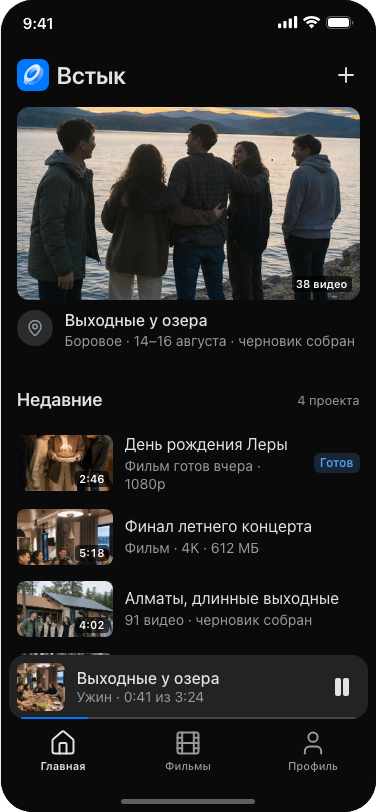
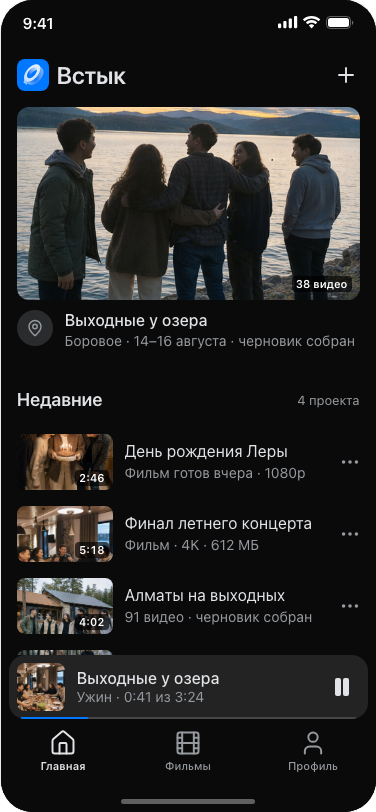
Встык: тап по фильму открывает плеер, по черновику — проект, действия за «…»; лист действий светлый в светлой теме приложения

Changed region(s): [[0.0293, 0.5234, 0.9069, 0.8313], [0.8191, 0.5542, 0.9654, 0.585], [0.234, 0.5234, 0.2633, 0.5542]]

diff --git a/platform/concepts/skleyka/screens/projects.html b/platform/concepts/skleyka/screens/projects.html
@@ -1,1 +1,1 @@
-<div class="screen ui vk-dark" id="scr-projects"><div class="ui-scroll is-root"><header class="ui-top"><strong class="ui-wordmark"><img class="ui-wordmark-logo" src="assets/app-icon.png" alt=""/>Встык</strong><button class="ui-icon-btn" data-primary data-go="create" aria-label="Создать событие"><svg><use href="#i-plus"/></svg></button></header><button class="ui-video sk-first" data-go="project"><span class="ui-video-art m4"><span class="ui-duration"><span data-hide-granted="photos">38 видео</span><span class="perm-hidden" data-show-granted="photos">42 видео</span></span></span><span class="ui-video-meta"><span class="ui-avatar sk-place-ava"><svg><use href="#i-map-pin"/></svg></span><span class="ui-video-text"><strong>Выходные у озера</strong><span>Боровое · 14–16 августа · черновик собран</span></span></span></button><section class="ui-sec"><div class="ui-sec-head"><h2>Недавние</h2><span class="ui-foot">4 проекта</span></div><div class="ui-list"><button class="ui-row" data-menu="Изменить|Удалить" aria-label="День рождения Леры"><span class="ui-thumb is-wide m5"><span class="ui-duration">2:46</span></span><span class="ui-row-text"><strong>День рождения Леры</strong><span>Фильм готов вчера · 1080p</span></span><span class="ui-row-end"><span class="ui-badge is-blue">Готов</span></span></button><button class="ui-row" data-menu="Изменить|Удалить" aria-label="Финал летнего концерта"><span class="ui-thumb is-wide m3"><span class="ui-duration">5:18</span></span><span class="ui-row-text"><strong>Финал летнего концерта</strong><span>Фильм · 4K · 612 МБ</span></span></button><button class="ui-row" data-menu="Изменить|Удалить" aria-label="Алматы, длинные выходные"><span class="ui-thumb is-wide m1"><span class="ui-duration">4:02</span></span><span class="ui-row-text"><strong>Алматы, длинные выходные</strong><span>91 видео · черновик собран</span></span></button><button class="ui-row" data-menu="Изменить|Удалить" aria-label="Поход на Бурабай"><span class="ui-thumb is-wide m6"><span class="ui-duration">0:47</span></span><span class="ui-row-text"><strong>Поход на Бурабай</strong><span>6 видео · импорт 62 %</span></span></button></div></section><section class="ui-sec"><button class="sk-ad" data-go="ads"><span class="sk-ad-art" data-hide-granted="tracking"><svg><use href="#i-smartphone"/></svg></span><span class="sk-ad-art perm-hidden" data-show-granted="tracking"><svg><use href="#i-mic"/></svg></span><span class="ui-row-text"><strong data-hide-granted="tracking">Штатив для телефона</strong><strong class="perm-hidden" data-show-granted="tracking">Петличный микрофон</strong><span data-hide-granted="tracking">Реклама · снимать без рук</span><span class="perm-hidden" data-show-granted="tracking">Реклама · по интересам</span></span></button></section></div><nav class="ui-tabs tabbar" aria-label="Основная навигация"><div class="ui-mini"><button class="ui-mini-main" data-go="viewer" aria-label="Открыть плеер"><span class="ui-mini-face m3"></span><span class="ui-mini-text"><strong>Выходные у озера</strong><span>Ужин · 0:41 из 3:24</span></span></button><button class="ui-icon-btn" data-toast="Пауза на 0:41" aria-label="Пауза"><svg class="ui-fill-ico"><use href="#i-pause"/></svg></button><span class="ui-mini-bar"><i class="is-20"></i></span></div><div class="ui-tabrow"><button class="ui-tab tab is-on" aria-current="page" data-go="projects"><svg><use href="#i-house"/></svg><span>Главная</span></button><button class="ui-tab tab" data-go="archive"><svg><use href="#i-film"/></svg><span>Фильмы</span></button><button class="ui-tab tab" data-go="settings"><svg><use href="#i-user"/></svg><span>Профиль</span></button></div></nav><div class="home-ind"></div></div>
+<div class="screen ui vk-dark" id="scr-projects"><div class="ui-scroll is-root"><header class="ui-top"><strong class="ui-wordmark"><img class="ui-wordmark-logo" src="assets/app-icon.png" alt=""/>Встык</strong><button class="ui-icon-btn" data-primary data-go="create" aria-label="Создать событие"><svg><use href="#i-plus"/></svg></button></header><button class="ui-video sk-first" data-go="project"><span class="ui-video-art m4"><span class="ui-duration"><span data-hide-granted="photos">38 видео</span><span class="perm-hidden" data-show-granted="photos">42 видео</span></span></span><span class="ui-video-meta"><span class="ui-avatar sk-place-ava"><svg><use href="#i-map-pin"/></svg></span><span class="ui-video-text"><strong>Выходные у озера</strong><span>Боровое · 14–16 августа · черновик собран</span></span></span></button><section class="ui-sec"><div class="ui-sec-head"><h2>Недавние</h2><span class="ui-foot">4 проекта</span></div><div class="ui-list"><div class="ui-row"><button class="ui-row-main" data-go="viewer" aria-label="День рождения Леры"><span class="ui-thumb is-wide m5"><span class="ui-duration">2:46</span></span><span class="ui-row-text"><strong>День рождения Леры</strong><span>Фильм готов вчера · 1080p</span></span></button><button class="ui-row-end" data-menu="Изменить|Удалить" aria-label="Действия"><svg><use href="#i-ellipsis"/></svg></button></div><div class="ui-row"><button class="ui-row-main" data-go="viewer" aria-label="Финал летнего концерта"><span class="ui-thumb is-wide m3"><span class="ui-duration">5:18</span></span><span class="ui-row-text"><strong>Финал летнего концерта</strong><span>Фильм · 4K · 612 МБ</span></span></button><button class="ui-row-end" data-menu="Изменить|Удалить" aria-label="Действия"><svg><use href="#i-ellipsis"/></svg></button></div><div class="ui-row"><button class="ui-row-main" data-go="project" aria-label="Алматы на выходных"><span class="ui-thumb is-wide m1"><span class="ui-duration">4:02</span></span><span class="ui-row-text"><strong>Алматы на выходных</strong><span>91 видео · черновик собран</span></span></button><button class="ui-row-end" data-menu="Изменить|Удалить" aria-label="Действия"><svg><use href="#i-ellipsis"/></svg></button></div><div class="ui-row"><button class="ui-row-main" data-go="project" aria-label="Поход на Бурабай"><span class="ui-thumb is-wide m6"><span class="ui-duration">0:47</span></span><span class="ui-row-text"><strong>Поход на Бурабай</strong><span>6 видео · импорт 62 %</span></span></button><button class="ui-row-end" data-menu="Изменить|Удалить" aria-label="Действия"><svg><use href="#i-ellipsis"/></svg></button></div></div></section><section class="ui-sec"><button class="sk-ad" data-go="ads"><span class="sk-ad-art" data-hide-granted="tracking"><svg><use href="#i-smartphone"/></svg></span><span class="sk-ad-art perm-hidden" data-show-granted="tracking"><svg><use href="#i-mic"/></svg></span><span class="ui-row-text"><strong data-hide-granted="tracking">Штатив для телефона</strong><strong class="perm-hidden" data-show-granted="tracking">Петличный микрофон</strong><span data-hide-granted="tracking">Реклама · снимать без рук</span><span class="perm-hidden" data-show-granted="tracking">Реклама · по интересам</span></span></button></section></div><nav class="ui-tabs tabbar" aria-label="Основная навигация"><div class="ui-mini"><button class="ui-mini-main" data-go="viewer" aria-label="Открыть плеер"><span class="ui-mini-face m3"></span><span class="ui-mini-text"><strong>Выходные у озера</strong><span>Ужин · 0:41 из 3:24</span></span></button><button class="ui-icon-btn" data-toast="Пауза на 0:41" aria-label="Пауза"><svg class="ui-fill-ico"><use href="#i-pause"/></svg></button><span class="ui-mini-bar"><i class="is-20"></i></span></div><div class="ui-tabrow"><button class="ui-tab tab is-on" aria-current="page" data-go="projects"><svg><use href="#i-house"/></svg><span>Главная</span></button><button class="ui-tab tab" data-go="archive"><svg><use href="#i-film"/></svg><span>Фильмы</span></button><button class="ui-tab tab" data-go="settings"><svg><use href="#i-user"/></svg><span>Профиль</span></button></div></nav><div class="home-ind"></div></div>

diff --git a/platform/concepts/skleyka/screens/archive.html b/platform/concepts/skleyka/screens/archive.html
@@ -1,1 +1,1 @@
-<div class="screen ui vk-dark" id="scr-archive"><div class="ui-scroll is-root"><header class="ui-large"><h1>Фильмы</h1><button class="ui-icon-btn" data-toast="Сначала новые" aria-label="Сортировать"><svg><use href="#i-arrow-left-right"/></svg></button></header><button class="ui-video" data-go="viewer"><span class="ui-video-art m4"><span class="ui-duration">3:24</span></span><span class="ui-video-meta"><span class="ui-video-text"><strong>Выходные у озера</strong><span>Сохранён в «Фото» сегодня · 1080p · 184 МБ</span></span></span></button><div class="ui-actions sk-archive-cta"><button class="ui-btn is-primary is-block" data-primary data-go="viewer"><svg class="ui-fill-ico"><use href="#i-play"/></svg><span>Открыть последний фильм</span></button></div><section class="ui-sec"><div class="ui-sec-head"><h2>Все фильмы</h2><span class="ui-foot">1,5 ГБ</span></div><div class="ui-list"><button class="ui-row" data-menu="Сохранить в «Файлы»|Удалить"><span class="ui-thumb is-wide m3"><span class="ui-duration">5:18</span></span><span class="ui-row-text"><strong>Финал летнего концерта</strong><span>4K · 612 МБ · в «Фото»</span></span></button><button class="ui-row" data-menu="Сохранить в «Файлы»|Удалить"><span class="ui-thumb is-wide m1"><span class="ui-duration">4:02</span></span><span class="ui-row-text"><strong>Алматы, длинные выходные</strong><span>1080p · 226 МБ · только здесь</span></span></button><button class="ui-row" data-menu="Сохранить в «Файлы»|Удалить"><span class="ui-thumb is-wide m6"><span class="ui-duration">2:10</span></span><span class="ui-row-text"><strong>Весна в Медеу</strong><span>720p · 96 МБ · в «Фото»</span></span></button><button class="ui-row" data-menu="Сохранить в «Файлы»|Удалить"><span class="ui-thumb is-wide m2"><span class="ui-duration">6:41</span></span><span class="ui-row-text"><strong>Новый год у Сабины</strong><span>1080p · 402 МБ · только здесь</span></span></button></div></section></div><nav class="ui-tabs tabbar" aria-label="Основная навигация"><div class="ui-mini"><button class="ui-mini-main" data-go="viewer" aria-label="Открыть плеер"><span class="ui-mini-face m3"></span><span class="ui-mini-text"><strong>Выходные у озера</strong><span>Ужин · 0:41 из 3:24</span></span></button><button class="ui-icon-btn" data-toast="Пауза на 0:41" aria-label="Пауза"><svg class="ui-fill-ico"><use href="#i-pause"/></svg></button><span class="ui-mini-bar"><i class="is-20"></i></span></div><div class="ui-tabrow"><button class="ui-tab tab" data-go="projects"><svg><use href="#i-house"/></svg><span>Главная</span></button><button class="ui-tab tab is-on" data-go="archive"><svg><use href="#i-film"/></svg><span>Фильмы</span></button><button class="ui-tab tab" data-go="settings"><svg><use href="#i-user"/></svg><span>Профиль</span></button></div></nav><div class="home-ind"></div></div>
+<div class="screen ui vk-dark" id="scr-archive"><div class="ui-scroll is-root"><header class="ui-large"><h1>Фильмы</h1><button class="ui-icon-btn" data-toast="Сначала новые" aria-label="Сортировать"><svg><use href="#i-arrow-left-right"/></svg></button></header><button class="ui-video" data-go="viewer"><span class="ui-video-art m4"><span class="ui-duration">3:24</span></span><span class="ui-video-meta"><span class="ui-video-text"><strong>Выходные у озера</strong><span>Сохранён в «Фото» сегодня · 1080p · 184 МБ</span></span></span></button><div class="ui-actions sk-archive-cta"><button class="ui-btn is-primary is-block" data-primary data-go="viewer"><svg class="ui-fill-ico"><use href="#i-play"/></svg><span>Открыть последний фильм</span></button></div><section class="ui-sec"><div class="ui-sec-head"><h2>Все фильмы</h2><span class="ui-foot">1,5 ГБ</span></div><div class="ui-list"><div class="ui-row"><button class="ui-row-main" data-go="viewer" aria-label="Финал летнего концерта"><span class="ui-thumb is-wide m3"><span class="ui-duration">5:18</span></span><span class="ui-row-text"><strong>Финал летнего концерта</strong><span>4K · 612 МБ · в «Фото»</span></span></button><button class="ui-row-end" data-menu="Сохранить в «Файлы»|Удалить" aria-label="Действия"><svg><use href="#i-ellipsis"/></svg></button></div><div class="ui-row"><button class="ui-row-main" data-go="viewer" aria-label="Алматы на выходных"><span class="ui-thumb is-wide m1"><span class="ui-duration">4:02</span></span><span class="ui-row-text"><strong>Алматы на выходных</strong><span>1080p · 226 МБ · только здесь</span></span></button><button class="ui-row-end" data-menu="Сохранить в «Файлы»|Удалить" aria-label="Действия"><svg><use href="#i-ellipsis"/></svg></button></div><div class="ui-row"><button class="ui-row-main" data-go="viewer" aria-label="Весна в Медеу"><span class="ui-thumb is-wide m6"><span class="ui-duration">2:10</span></span><span class="ui-row-text"><strong>Весна в Медеу</strong><span>720p · 96 МБ · в «Фото»</span></span></button><button class="ui-row-end" data-menu="Сохранить в «Файлы»|Удалить" aria-label="Действия"><svg><use href="#i-ellipsis"/></svg></button></div><div class="ui-row"><button class="ui-row-main" data-go="viewer" aria-label="Новый год у Сабины"><span class="ui-thumb is-wide m2"><span class="ui-duration">6:41</span></span><span class="ui-row-text"><strong>Новый год у Сабины</strong><span>1080p · 402 МБ · только здесь</span></span></button><button class="ui-row-end" data-menu="Сохранить в «Файлы»|Удалить" aria-label="Действия"><svg><use href="#i-ellipsis"/></svg></button></div></div></section></div><nav class="ui-tabs tabbar" aria-label="Основная навигация"><div class="ui-mini"><button class="ui-mini-main" data-go="viewer" aria-label="Открыть плеер"><span class="ui-mini-face m3"></span><span class="ui-mini-text"><strong>Выходные у озера</strong><span>Ужин · 0:41 из 3:24</span></span></button><button class="ui-icon-btn" data-toast="Пауза на 0:41" aria-label="Пауза"><svg class="ui-fill-ico"><use href="#i-pause"/></svg></button><span class="ui-mini-bar"><i class="is-20"></i></span></div><div class="ui-tabrow"><button class="ui-tab tab" data-go="projects"><svg><use href="#i-house"/></svg><span>Главная</span></button><button class="ui-tab tab is-on" data-go="archive"><svg><use href="#i-film"/></svg><span>Фильмы</span></button><button class="ui-tab tab" data-go="settings"><svg><use href="#i-user"/></svg><span>Профиль</span></button></div></nav><div class="home-ind"></div></div>

diff --git a/platform/kernel/base.css b/platform/kernel/base.css
@@ -1600,7 +1600,8 @@ button.ui-mini-info-cell { min-height:44px; align-items:center; }
 .action-sheet-item.is-destructive { color:#ff3b30; }
 .action-sheet button:focus:not(:focus-visible) { outline:none; }
 .action-sheet-cancel { border-radius:14px; background:#fff; font-weight:600; }
-.ui.vk-dark .action-sheet-group { background:rgba(44,44,46,.96); } .ui.vk-dark .action-sheet-cancel { background:#2c2c2e; } .ui.vk-dark :is(.action-sheet-item, .action-sheet-cancel) { color:#0a84ff; } .ui.vk-dark .action-sheet-item.is-destructive { color:#ff453a; }
+/* В светлой теме приложения (переключатель Музыки и Видео) лист светлый, как в iOS */
+:root:not([data-app-theme="light"]) .ui.vk-dark .action-sheet-group { background:rgba(44,44,46,.96); } :root:not([data-app-theme="light"]) .ui.vk-dark .action-sheet-cancel { background:#2c2c2e; } :root:not([data-app-theme="light"]) .ui.vk-dark :is(.action-sheet-item, .action-sheet-cancel) { color:#0a84ff; } :root:not([data-app-theme="light"]) .ui.vk-dark .action-sheet-item.is-destructive { color:#ff453a; }
 @keyframes as-in { from { opacity:0; } }
 
 /* Своя запись в ленте: шапка как у поста (значок 44 вместо аватара), текст, медиа, действия */

diff --git a/platform/concepts/skleyka/docs/02-architecture.md b/platform/concepts/skleyka/docs/02-architecture.md
@@ -19,7 +19,7 @@
     ├─ Новое событие (create) — push · открывается: «Создать событие» · location
     │   └─ Место события (place) — system · открывается: «Место» (location)
     ├─ Выходные в Каркаралинске (fresh) — push · открывается: «Создать событие»
-    └─ Выходные у озера (project) — push · открывается: «38 видео», «Добавить» …, «Открыть» · photos
+    └─ Выходные у озера (project) — push · открывается: «38 видео», «Алматы на выходных» …, «Открыть» · photos
         ├─ Запросить видео (invite) — modal · открывается: «Попросить видео у друзей»
         │   └─ Поделиться запросом (share) — system · открывается: «Поделиться запросом»
         ├─ Выбрать видео (import) — system · открывается: «Из Фото» (photos)
@@ -28,7 +28,7 @@
         └─ Черновик (draft) — push · открывается: «Записать вступление», «Открыть черновик» … · camera, mic
             ├─ Камера (camera) — fullscreen · открывается: «Снять вступление» (camera + mic)
             ├─ Порядок фрагментов (editor) — push · открывается: «Править порядок»
-            └─ Просмотр фильма (viewer) — fullscreen · открывается: «3:24», «Открыть последний фильм» … · localnetwork, audio
+            └─ Просмотр фильма (viewer) — fullscreen · открывается: «День рождения Леры», «Финал летнего концерта» … · localnetwork, audio
                 ├─ Смотреть на телевизоре (cast) — system · открывается: «Смотреть на телевизоре» (localnetwork)
                 ├─ Показ на телевизоре (tv) — fullscreen · открывается: «Гостиная»
                 ├─ Картинка в картинке (background) — system · открывается: «Картинка в картинке» (audio)
@@ -104,13 +104,14 @@
 | `deleteaccount` | «Назад» | `account` | — | возврат по IA |
 | `deleteaccount` | «Удалить аккаунт» | `phone` | — | переход |
 | `projects` | «Создать событие» | `create` | — | переход |
-| `projects` | «38 видео» | `project` | — | переход |
+| `projects` | «38 видео», «Алматы на выходных» … | `project` | — | переход |
+| `projects` | «День рождения Леры», «Финал летнего концерта» | `viewer` | — | переход |
 | `projects` | «Штатив для телефона» | `ads` | — | переход |
 | `settings` | «Профиль и аккаунт» | `account` | — | переход |
 | `settings` | «Реклама» | `ads` | — | переход |
 | `ads` | «Назад» | `settings` | — | возврат по IA |
 | `ads` | «Подбирать по интересам» | `ads` | `NSUserTrackingUsageDescription` | доступ разрешён |
-| `archive` | «3:24», «Открыть последний фильм» | `viewer` | — | переход |
+| `archive` | «3:24», «Открыть последний фильм» … | `viewer` | — | переход |
 | `create` | «Назад» | `projects` | — | возврат по IA |
 | `create` | «Место» | `place` | `NSLocationWhenInUseUsageDescription` | доступ разрешён |
 | `create` | «Место» | `create` | `NSLocationWhenInUseUsageDescription` | отказ → fallback |
@@ -195,10 +196,14 @@
 | `deleteaccount` | Удалить аккаунт | элемент экрана | открывает экран | Вход по номеру (phone) | — | — |
 | `projects` | Создать событие | элемент экрана | открывает экран | Новое событие (create) | — | — |
 | `projects` | 38 видео | элемент экрана | открывает экран | Выходные у озера (project) | — | — |
-| `projects` | День рождения Леры | элемент экрана | открывает лист действий: Изменить · Удалить | остаётся на экране | — | — |
-| `projects` | Финал летнего концерта | элемент экрана | открывает лист действий: Изменить · Удалить | остаётся на экране | — | — |
-| `projects` | Алматы, длинные выходные | элемент экрана | открывает лист действий: Изменить · Удалить | остаётся на экране | — | — |
-| `projects` | Поход на Бурабай | элемент экрана | открывает лист действий: Изменить · Удалить | остаётся на экране | — | — |
+| `projects` | День рождения Леры | элемент экрана | открывает экран | Просмотр фильма (viewer) | — | — |
+| `projects` | Действия | элемент экрана | открывает лист действий: Изменить · Удалить | остаётся на экране | — | — |
+| `projects` | Финал летнего концерта | элемент экрана | открывает экран | Просмотр фильма (viewer) | — | — |
+| `projects` | Действия | элемент экрана | открывает лист действий: Изменить · Удалить | остаётся на экране | — | — |
+| `projects` | Алматы на выходных | элемент экрана | открывает экран | Выходные у озера (project) | — | — |
+| `projects` | Действия | элемент экрана | открывает лист действий: Изменить · Удалить | остаётся на экране | — | — |
+| `projects` | Поход на Бурабай | элемент экрана | открывает экран | Выходные у озера (project) | — | — |
+| `projects` | Действия | элемент экрана | открывает лист действий: Изменить · Удалить | остаётся на экране | — | — |
 | `projects` | Штатив для телефона | элемент экрана | открывает экран | Реклама (ads) | — | — |
 | `projects` | Открыть плеер | вкладка | переключает вкладку таб-бара | Просмотр фильма (viewer) | — | — |
 | `projects` | Пауза | вкладка | показывает подтверждение «Пауза на 0:41» | остаётся на экране | — | — |
@@ -216,10 +221,14 @@
 | `archive` | Сортировать | элемент экрана | показывает подтверждение «Сначала новые» | остаётся на экране | — | — |
 | `archive` | 3:24 | элемент экрана | открывает экран | Просмотр фильма (viewer) | — | — |
 | `archive` | Открыть последний фильм | элемент экрана | открывает экран | Просмотр фильма (viewer) | — | — |
-| `archive` | 5:18 | элемент экрана | открывает лист действий: Сохранить в «Файлы» · Удалить | остаётся на экране | — | — |
-| `archive` | 4:02 | элемент экрана | открывает лист действий: Сохранить в «Файлы» · Удалить | остаётся на экране | — | — |
-| `archive` | 2:10 | элемент экрана | открывает лист действий: Сохранить в «Файлы» · Удалить | остаётся на экране | — | — |
-| `archive` | 6:41 | элемент экрана | открывает лист действий: Сохранить в «Файлы» · Удалить | остаётся на экране | — | — |
+| `archive` | Финал летнего концерта | элемент экрана | открывает экран | Просмотр фильма (viewer) | — | — |
+| `archive` | Действия | элемент экрана | открывает лист действий: Сохранить в «Файлы» · Удалить | остаётся на экране | — | — |
+| `archive` | Алматы на выходных | элемент экрана | открывает экран | Просмотр фильма (viewer) | — | — |
+| `archive` | Действия | элемент экрана | открывает лист действий: Сохранить в «Файлы» · Удалить | остаётся на экране | — | — |
+| `archive` | Весна в Медеу | элемент экрана | открывает экран | Просмотр фильма (viewer) | — | — |
+| `archive` | Действия | элемент экрана | открывает лист действий: Сохранить в «Файлы» · Удалить | остаётся на экране | — | — |
+| `archive` | Новый год у Сабины | элемент экрана | открывает экран | Просмотр фильма (viewer) | — | — |
+| `archive` | Действия | элемент экрана | открывает лист действий: Сохранить в «Файлы» · Удалить | остаётся на экране | — | — |
 | `archive` | Открыть плеер | вкладка | переключает вкладку таб-бара | Просмотр фильма (viewer) | — | — |
 | `archive` | Пауза | вкладка | показывает подтверждение «Пауза на 0:41» | остаётся на экране | — | — |
 | `archive` | Главная | вкладка | переключает вкладку таб-бара | Главная (projects) | — | — |
